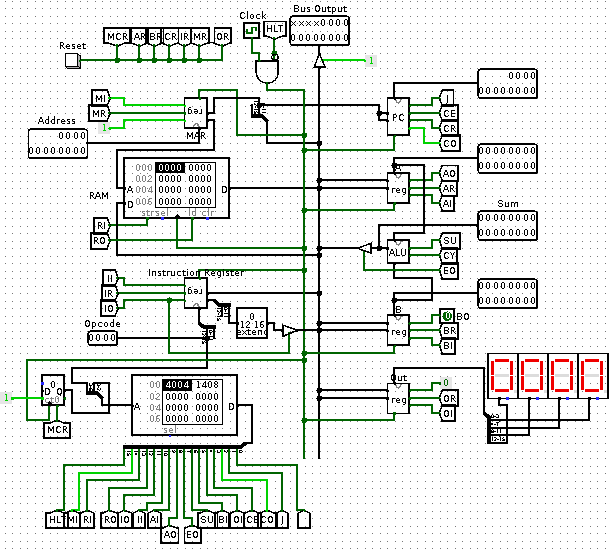
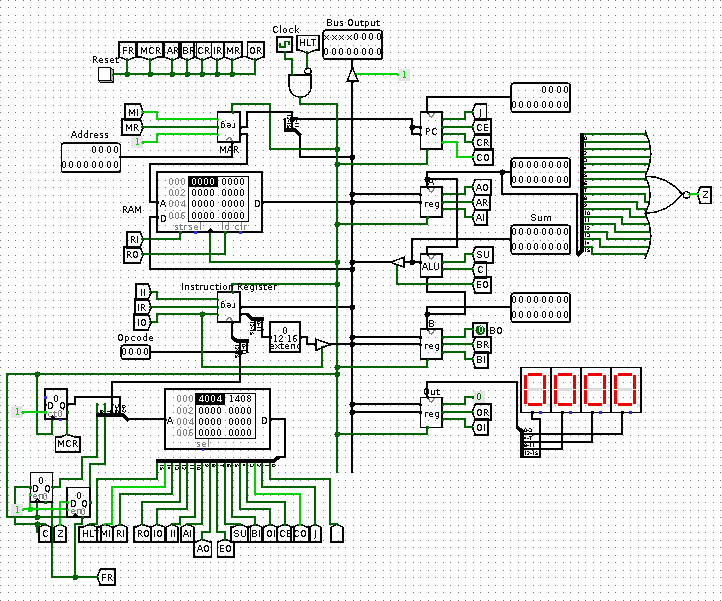
updated docs

diff --git a/README.md b/README.md
@@ -1,7 +1,7 @@
 
 <h1 align="center"> Simple RISC Machine </h1>  
   
-SRM is  a 16-bit RISC CPU based on the Harvard architecture. It is inspired by the SAP processor by Albert Paul Malvino and Ben Eater's <a href="https://eater.net/8bit">8-bit computer</a>. It is created using <a href="http://www.cburch.com/logisim/">Logisim</a>.
+SRM is a Turing complete 16-bit RISC CPU based on the Harvard architecture. It is inspired by the SAP processor by Albert Paul Malvino and Ben Eater's <a href="https://eater.net/8bit">8-bit computer</a>. It is created using <a href="http://www.cburch.com/logisim/">Logisim</a>.
   
 <p align="center">  
     <img src="./docs/images/circuit.png" alt="circuit.png"/>  
@@ -23,8 +23,20 @@ SRM has a clean and simple architecture. A 16-bit bus runs through the center an
 |15 | 14 | 13 | 12 | 11 | 10 | 9 | 8 | 7 | 6 | 5 | 4 | 3 | 2 | 1 | 0 |
 |--|--|--|--|--|--|--|--|--|--|--|--|--|--|--|--|
 | HLT | MI | RI | RO | IO | II | AI | AO | EO | SU | BI | OI | CE | CO | J | - |
+Detailed description is available in the [microcodes.py](scripts/microcodes.py) file.
 
-Detailed description is available in the [ROM_data.py](scripts/ROM_data.py) file.
+### Flags
+|#| Abbreviation | Description |
+|--|--|--|
+|0| C | Carry Flag |
+|1| Z | Zero Flag |
+
+### Microcodes
+The ROM has 9 address lines which map to a data space of 64 bytes. The address lines are:
+* A0-A3: microcode counter
+* A4-A6: instruction decoder
+* A7: zero bit
+* A8: carry bit
 
 ### Instruction Set
 
@@ -43,6 +55,8 @@ SRM supports three types of instructions:
 | 4 | STA address | RAM[address] <- A |
 | 5 | LDI data | A <- data |
 | 6 | JMP address | PC <- address |
+| 7 | JZ address | PC <- address if Z |
+| 8 | JC address | PC <- address if C |
 | 14 | OUT | OUT <- A |
 | 15 | HLT | Halts CPU |
 
@@ -50,5 +64,4 @@ SRM supports three types of instructions:
 Assembly code can be assembled using the [assembler.py](scripts/assembler.py). It can be then loaded in RAM and executed using the logisim interface. I will upload a sample video soon.
 
 ### Up next
-* Conditional Jumps to make it Turing complete
 * Cycle optimisation for instructions
